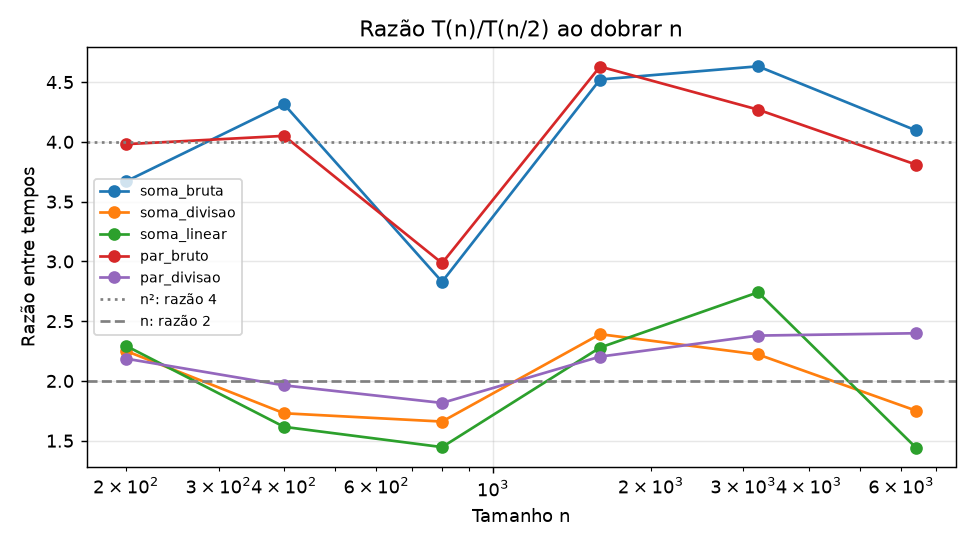
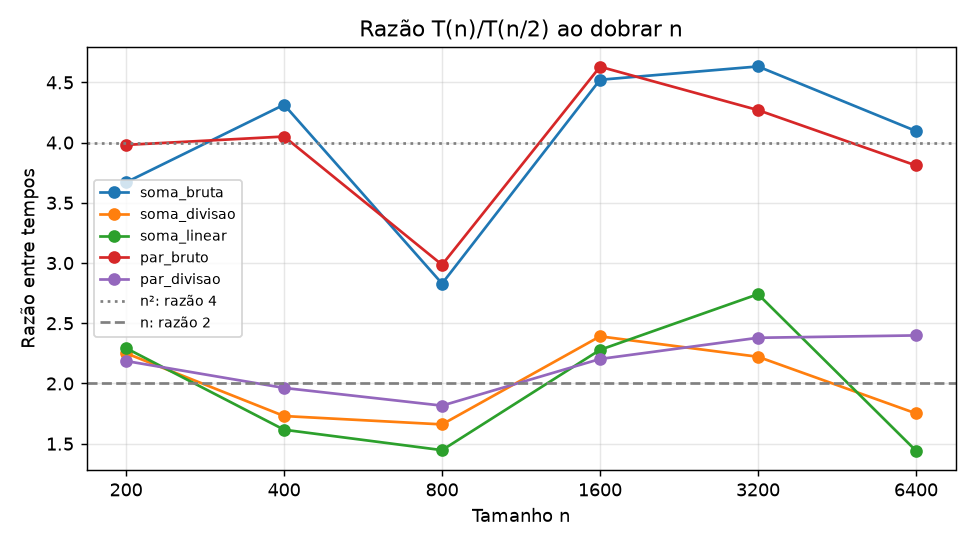
Gráfico de razões: eixo x só nos tamanhos medidos

diff --git a/benchmark.py b/benchmark.py
@@ -280,7 +280,9 @@ def gerar_graficos(pasta, medias, tamanhos, lim_medias, escolhido, cruz_medias):
         ax.plot(tamanhos[1:], [s[i + 1] / s[i] for i in range(len(s) - 1)], marker='o', label=nome)
     ax.axhline(4, color='gray', ls=':', label='n²: razão 4')
     ax.axhline(2, color='gray', ls='--', label='n: razão 2')
-    ax.set(title='Razão T(n)/T(n/2) ao dobrar n', xlabel='Tamanho n', ylabel='Razão entre tempos', xscale='log')
+    ax.set(title='Razão T(n)/T(n/2) ao dobrar n', xlabel='Tamanho n', ylabel='Razão entre tempos', xscale='log',
+           xticks=tamanhos[1:], xticklabels=tamanhos[1:])
+    ax.minorticks_off()
     ax.legend(fontsize=8)
     ax.grid(alpha=.3)
     fig.tight_layout()
